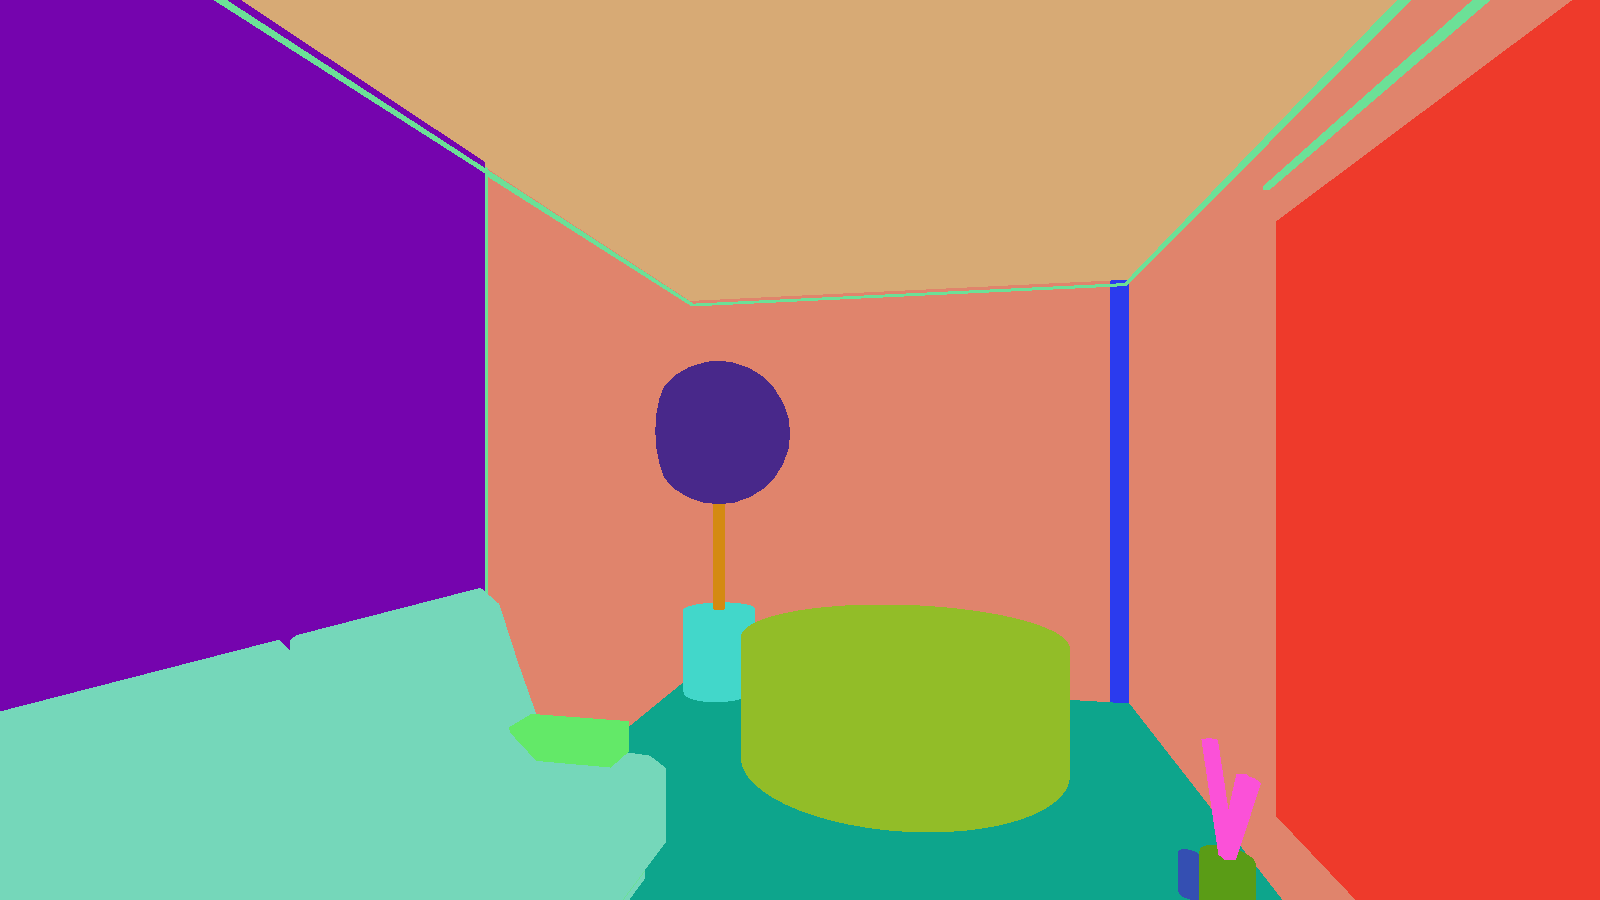
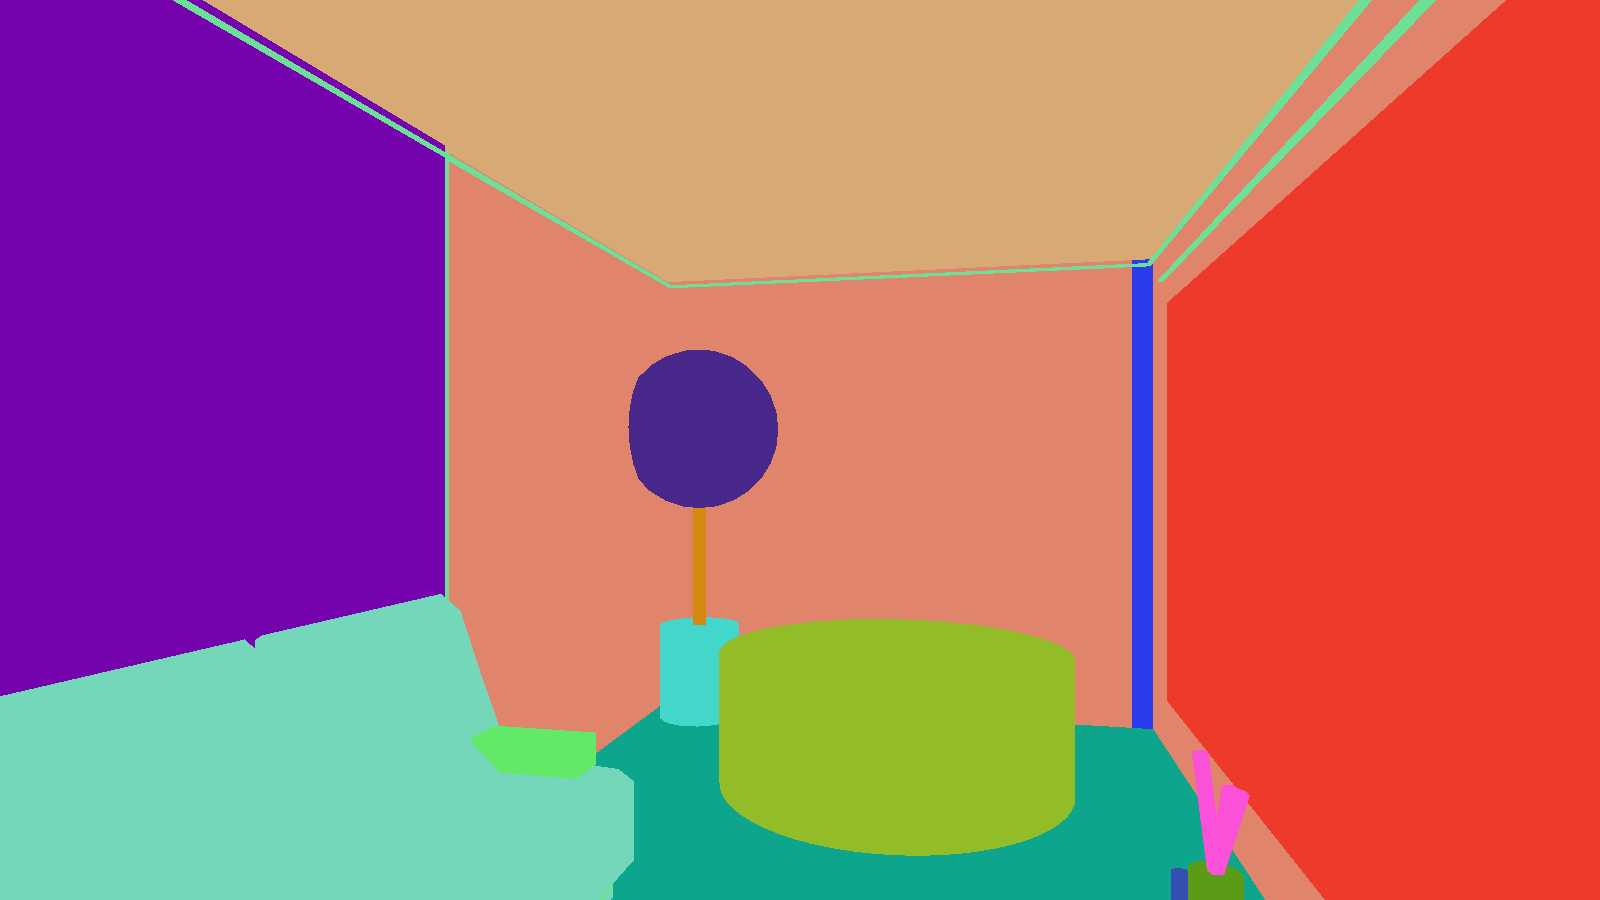
Type 4 spa: less extreme lenses (model elongated the room at 96-102 deg), longer moss wall
Claude-Session: https://claude.ai/code/session_01ETmbUPpvTDduvuaab54EVi

diff --git a/luxury-render/plans/tip4-podrum/design_layer.py b/luxury-render/plans/tip4-podrum/design_layer.py
@@ -98,8 +98,8 @@ for i, x in enumerate((X(718) - 1.6, X(862))):
 D.append(led("D_spa_bench_glow", X(723), Y(160) - 9, X(856), Y(160) - 7, 4, 5.5))          # toe-kick glow under the bench
 # living moss wall on the spa side of the garage wall, grazed by a warm line above
 SW = Y(324)
-D.append(B("D_spa_moss", "moss_wall", X(690), SW - 4.0, X(880), SW - 1.2, 30, 235, kind="panel"))
-D.append(led("D_spa_moss_led", X(690), SW - 8, X(880), SW - 6, 246, 247.5))
+D.append(B("D_spa_moss", "moss_wall", X(690), SW - 4.0, X(1005), SW - 1.2, 30, 235, kind="panel"))
+D.append(led("D_spa_moss_led", X(690), SW - 8, X(1005), SW - 6, 246, 247.5))
 # jacuzzi: soft glow ring at its plinth
 D.append(T("D_spa_jac_glow", "led_line", X(962), Y(218), 4, 64 * K - 3, 1.4, "z"))
 for i, (dx, dy) in enumerate([(0, 0), (-12, 8), (10, 10)]):
